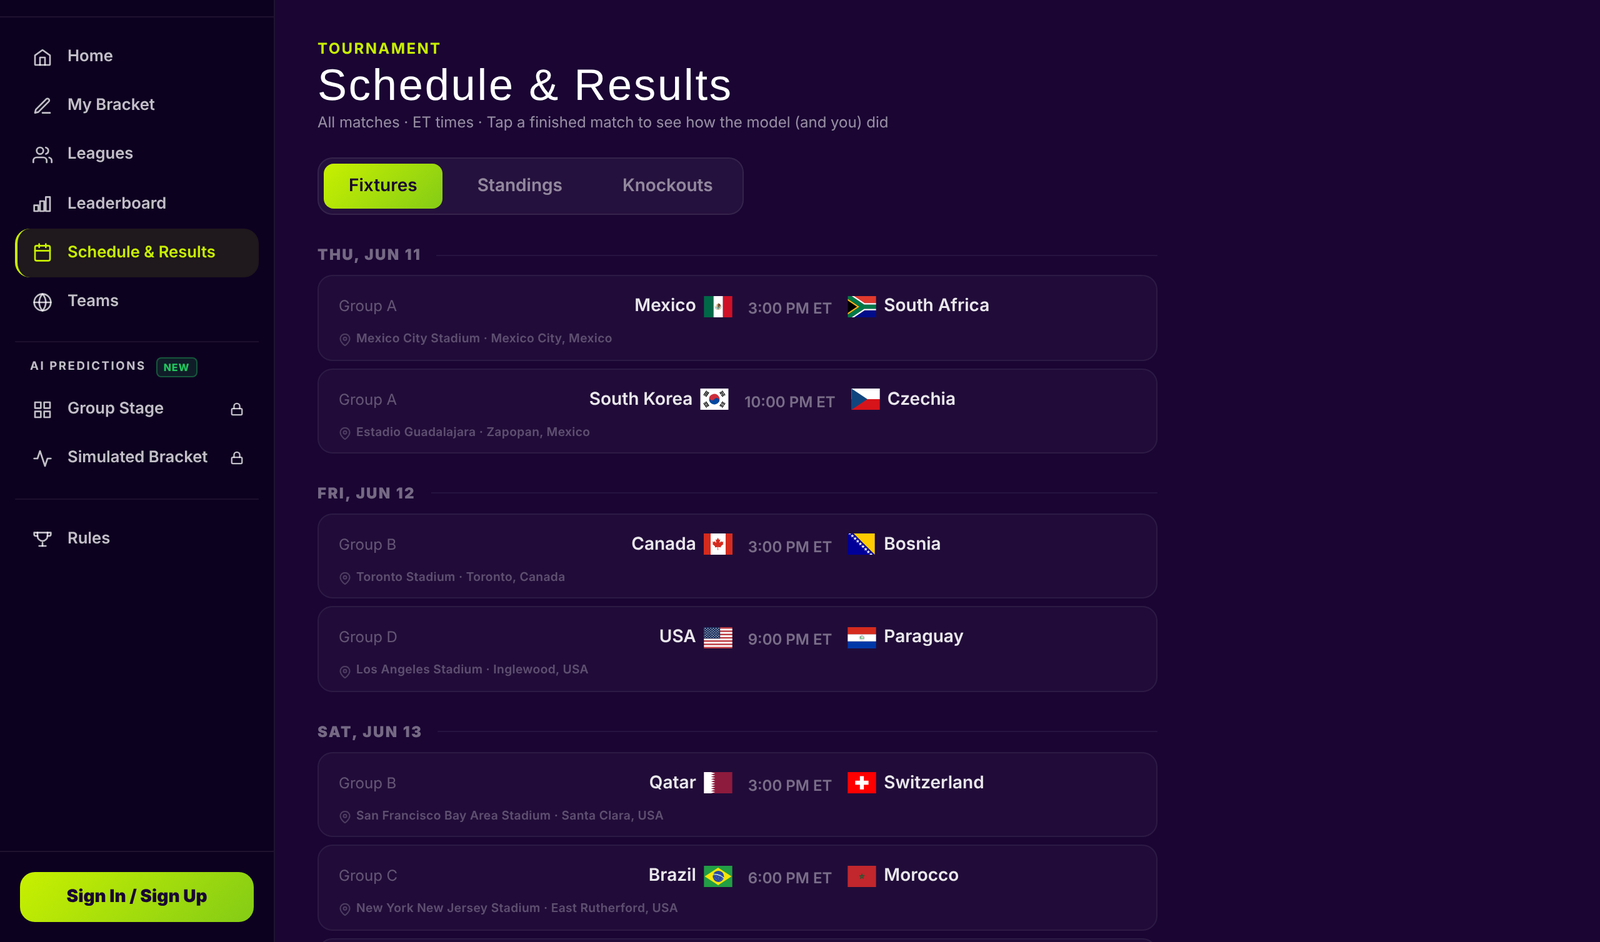
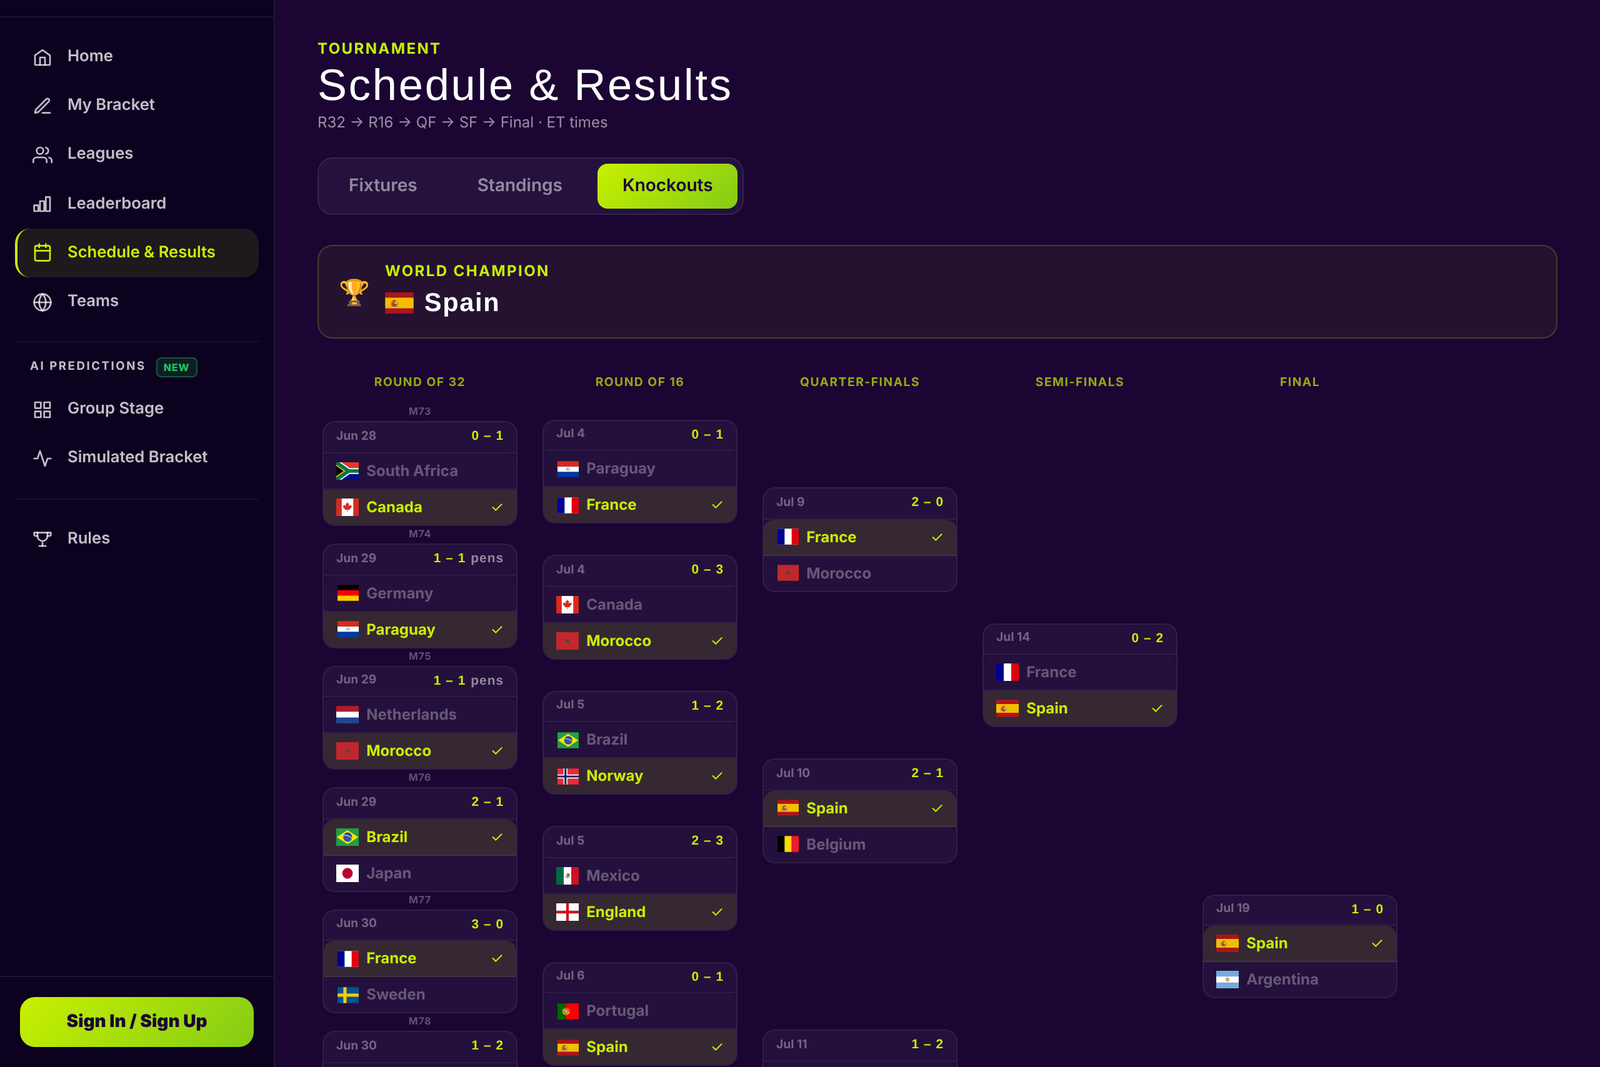
fix: complete the knockout bracket
- Record shootout winners (migration 011) and use them to advance
  teams when a knockout score is level; mark penalty wins in the UI
- Pin FIFA's official third-place slots, which the generic solver had
  swapped for Belgium and Switzerland's Round of 32 games
- README: bracket screenshot and a note on the data correction

Claude-Session: https://claude.ai/code/session_01GNRb66pQy7tQpVGCksQ7tX

diff --git a/src/pages/Schedule.jsx b/src/pages/Schedule.jsx
@@ -8,6 +8,7 @@ import PostMatchBreakdown from "../components/PostMatchBreakdown";
 import LiveMatchPanel from "../components/LiveMatchPanel";
 import fixtures from "../data/wc2026_fixtures.json";
 import eloRatings from "../data/elo_ratings.json";
+import officialThirdPlace from "../data/r32_third_place_official.json";
 
 const GROUPS = ["A","B","C","D","E","F","G","H","I","J","K","L"];
 const GROUP_MATCHES = fixtures.filter(m => m.group);
@@ -222,11 +223,26 @@ function buildLiveR32Slots(byGroup, resultsMap) {
       .sort((a, b) => b.pts - a.pts || getElo(b.team) - getElo(a.team)).slice(0, 8);
     const assignments = assign3rdPlace(thirds);
     for (const [idx] of KO_THIRD_SLOTS) {
-      if (assignments[idx]) slots[idx].away = assignments[idx];
+      const team = officialThirdPlace[idx] ?? assignments[idx];
+      if (team) slots[idx].away = team;
     }
   }
 
   return slots;
+}
+
+// Side that won a knockout tie. Level scores fall back to `winner`
+// ("home" | "away"), which records who won the penalty shootout.
+function koWinnerSide(r) {
+  const hs = +r.home_score, as_ = +r.away_score;
+  if (hs > as_) return "home";
+  if (as_ > hs) return "away";
+  return r.winner === "home" || r.winner === "away" ? r.winner : null;
+}
+
+function koWinner(r, home, away) {
+  const side = koWinnerSide(r);
+  return side === "home" ? home : side === "away" ? away : null;
 }
 
 function buildLiveBracket(byGroup, resultsMap, r32Slots) {
@@ -242,8 +258,7 @@ function buildLiveBracket(byGroup, resultsMap, r32Slots) {
     const r = resultsMap[`M${73 + i}`];
     if (!r || r.home_score == null) continue;
     const slot = r32Slots[i];
-    const hs = +r.home_score, as_ = +r.away_score;
-    bw.R32[i] = hs > as_ ? slot.home : hs < as_ ? slot.away : null;
+    bw.R32[i] = koWinner(r, slot.home, slot.away);
   }
 
   const r16Base = 89;
@@ -252,8 +267,7 @@ function buildLiveBracket(byGroup, resultsMap, r32Slots) {
     if (!r || r.home_score == null) continue;
     const [hr, hi, ar, ai] = KO_MATCH_SOURCES.R16[i];
     const homeTeam = bw[hr][hi], awayTeam = bw[ar][ai];
-    const hs = +r.home_score, as_ = +r.away_score;
-    bw.R16[i] = hs > as_ ? homeTeam : as_ > hs ? awayTeam : null;
+    bw.R16[i] = koWinner(r, homeTeam, awayTeam);
   }
 
   const qfBase = 97;
@@ -262,8 +276,7 @@ function buildLiveBracket(byGroup, resultsMap, r32Slots) {
     if (!r || r.home_score == null) continue;
     const [hr, hi, ar, ai] = KO_MATCH_SOURCES.QF[i];
     const homeTeam = bw[hr][hi], awayTeam = bw[ar][ai];
-    const hs = +r.home_score, as_ = +r.away_score;
-    bw.QF[i] = hs > as_ ? homeTeam : as_ > hs ? awayTeam : null;
+    bw.QF[i] = koWinner(r, homeTeam, awayTeam);
   }
 
   for (let i = 0; i < 2; i++) {
@@ -271,15 +284,12 @@ function buildLiveBracket(byGroup, resultsMap, r32Slots) {
     if (!r || r.home_score == null) continue;
     const [hr, hi, ar, ai] = KO_MATCH_SOURCES.SF[i];
     const homeTeam = bw[hr][hi], awayTeam = bw[ar][ai];
-    const hs = +r.home_score, as_ = +r.away_score;
-    bw.SF[i] = hs > as_ ? homeTeam : as_ > hs ? awayTeam : null;
+    bw.SF[i] = koWinner(r, homeTeam, awayTeam);
   }
 
   const rF = resultsMap["M104"];
   if (rF && rF.home_score != null) {
-    const homeTeam = bw.SF[0], awayTeam = bw.SF[1];
-    const hs = +rF.home_score, as_ = +rF.away_score;
-    bw.F[0] = hs > as_ ? homeTeam : as_ > hs ? awayTeam : null;
+    bw.F[0] = koWinner(rF, bw.SF[0], bw.SF[1]);
   }
 
   return bw;
@@ -354,8 +364,10 @@ function BracketMatchCard({ round, idx, r32Slots, bw, resultsMap, now }) {
   const hasScore = hasResult;
   const hs = hasScore ? +result.home_score : null;
   const as_ = hasScore ? +result.away_score : null;
-  const homeWon = hasScore && hs > as_;
-  const awayWon = hasScore && as_ > hs;
+  const winSide = hasScore ? koWinnerSide(result) : null;
+  const homeWon = winSide === "home";
+  const awayWon = winSide === "away";
+  const onPens = hasScore && hs === as_ && winSide != null;
   const upcoming = sched ? parseFixtureDate(sched.date, sched.time) : null;
   const isLive = upcoming && now >= upcoming && now < new Date(upcoming.getTime() + 120 * 60 * 1000);
 
@@ -378,7 +390,7 @@ function BracketMatchCard({ round, idx, r32Slots, bw, resultsMap, now }) {
             <span style={{ fontSize: "0.6rem", fontWeight: 900, color: "#22c55e" }}>LIVE</span>
           ) : hasScore ? (
             <span style={{ fontSize: "0.65rem", fontWeight: 900, color: "#c8f000", fontFamily: "'Bebas Neue',sans-serif", letterSpacing: "0.05em" }}>
-              {hs} – {as_}
+              {hs} – {as_}{onPens && <span className="ml-1 text-white/50">pens</span>}
             </span>
           ) : (
             <span style={{ fontSize: "0.6rem", color: "rgba(255,255,255,0.3)", fontWeight: 600 }}>
@@ -604,6 +616,11 @@ function MatchRow({ fixture, result, now, r32Slots, bw, userPick = null, conf = 
               <span className="font-black tabular-nums text-sm" style={{ color: "#c8f000" }}>
                 {result.home_score} – {result.away_score}
               </span>
+              {result.winner && +result.home_score === +result.away_score && (
+                <span className="text-[0.55rem] font-bold text-white/50">
+                  {result.winner === "home" ? homeTeam : awayTeam} on pens
+                </span>
+              )}
               {userPick != null && !fixture.isKnockout && (
                 <span style={{ fontSize: "0.55rem", fontWeight: 900, color: pickRight ? "#22c55e" : "#ef4444" }}>
                   {pickRight ? "✓ your pick" : "✗ your pick"}

diff --git a/README.md b/README.md
@@ -6,7 +6,7 @@ A full-stack web app for predicting 2026 FIFA World Cup matches. A trained model
 
 **Status:** the tournament ended on 19 July 2026 with Spain beating Argentina 1–0 in the final. Picks are closed and the data is frozen. The model's predictions stay open to everyone, no account needed.
 
-![Schedule view of the World Cup 2026 Predictor](docs/screenshot.png)
+![Knockout bracket of the World Cup 2026 Predictor, ending with Spain as champion](docs/screenshot.png)
 
 ## Highlights
 
@@ -15,6 +15,7 @@ A full-stack web app for predicting 2026 FIFA World Cup matches. A trained model
 - **Live scores.** A Supabase Edge Function polls match data every minute through `pg_cron` and pushes goals, cards and subs to the browser over Realtime. No client polling.
 - **Picks and leagues.** Email, magic link and Google sign-in. Private leagues with join codes, confidence picks, streaks and a database trigger to lock picks at kickoff.
 - **Automated data pipeline.** GitHub Actions refresh form data and rerun the simulation daily, commit the new JSON and redeploy the site. The schedule is off now the tournament is over.
+- **Data correction.** The live feed filed several knockout scores under the wrong match numbers. A one-off correction rebuilt all 31 knockout results from two independent sources that agree on every game, and a new shootout-winner column lets penalty wins resolve the bracket.
 - **Security.** Row-level security on every table. The service-role key lives only in the edge function and CI secrets.
 
 ## Tech stack
